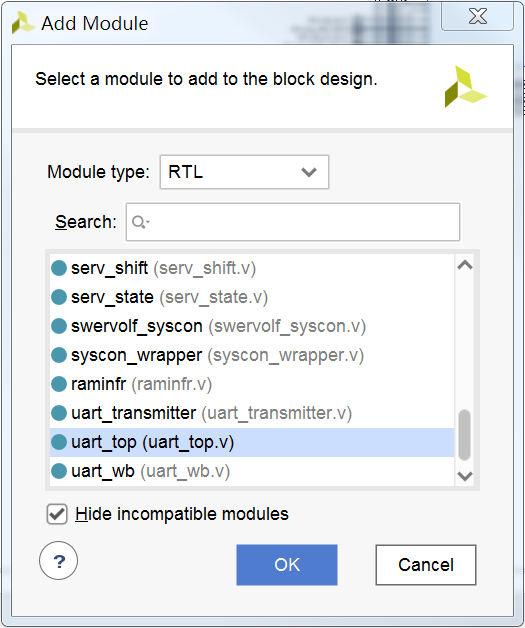
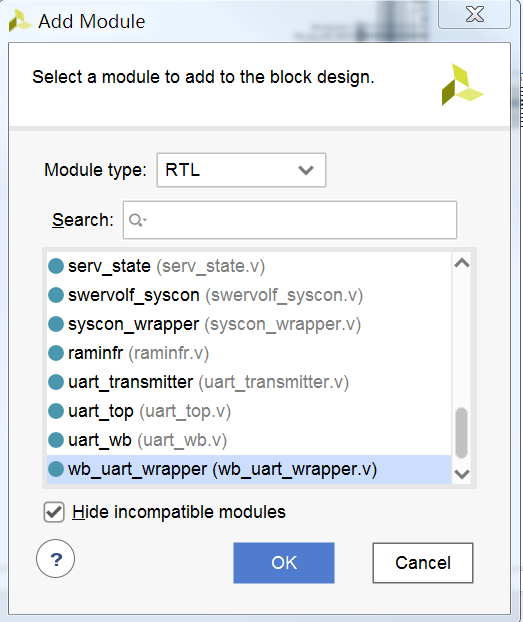
update README.md.

diff --git a/README.md b/README.md
@@ -12,9 +12,9 @@
 
 ![添加uart目录到工程](image_2022010702.png)
 
-点击“Open Block Design”打开块设计，如下图所示，通过“Add Module”将uart_top模块添加到块设计。
+点击“Open Block Design”打开块设计，如下图所示，通过“Add Module”将wb_uart_wrapper模块添加到块设计。
 
-![添加uart_top模块](image_2022010703.png)
+![输入图片说明](image_2022010703.png)
 
 将刚刚添加的uart_top_0模块连接到块设计，连接完成后如下图所示。
 
